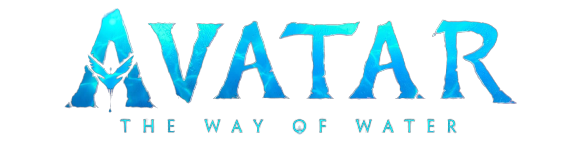
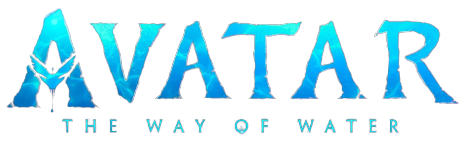
responsive working

diff --git a/src/css/style.css b/src/css/style.css
@@ -55,19 +55,24 @@ li{
     font-weight: 600;
     font-size: 30px;
     cursor: pointer;
-    display: inline-block;
+    list-style: none;
     padding-right: 30px;
     transition: 0.3s;
+    display: inline;
+   
 }
 
 li:hover{
-   color:#0e004e ;
+   color:#0098c2 ;
     transition: 0.3s;
+    
 }
 
 
 ul{
     margin-left: 65vw;
+    
+    
 }
 
 
@@ -78,6 +83,7 @@ ul{
 }
 
 .imagem-titulo{
+    margin:0 15%;
     height: 30vh;
     
 }
@@ -116,7 +122,6 @@ button{
     border: none;
     background-color: #65C9E5;
     border-radius: 20px;
-
     transition: 0.5s;
 }
 
@@ -124,6 +129,7 @@ button:hover{
     background-color: #0e004e;
     color: white;
     transition: 0.5s;
+    transform: scale(1.1)
 }
 
 
@@ -168,6 +174,65 @@ button:hover{
 .modal.open {
     opacity: 1;
     visibility: visible;
+}
+
+@media (max-width: 1200px) {
+
+    .content{
+        overflow: scroll;
+    }
+    header
+    {
+        display: block;
+        text-align: center;
+    }
+    .logo{
+        width: 18%;
+        margin-left: 0;
+    }
+
+
+    ul{
+        margin-left: 0
+        
+    }
+
+    li {
+        display: inline;
+        padding-right:4px;
+        padding-left:4px;
+        font-size: 15px;
+    }
+    .imagem-titulo{ 
+        width: 75vw;
+        margin:0;
+    }
+    .container {
+        display: block; 
+    }
+
+    .avatar{
+        width: 50vw;
+        display: flex;
+        margin: 0 auto;
+        margin-top: 3%;
+    }
+
+    .info{
+        text-align: center;
+        margin: 0 auto;
+    }
+
+    p{
+        font-size: 10px;
+    }
+
+    button{
+        width: 50%;
+    }
+
+
+
 }
 
 
